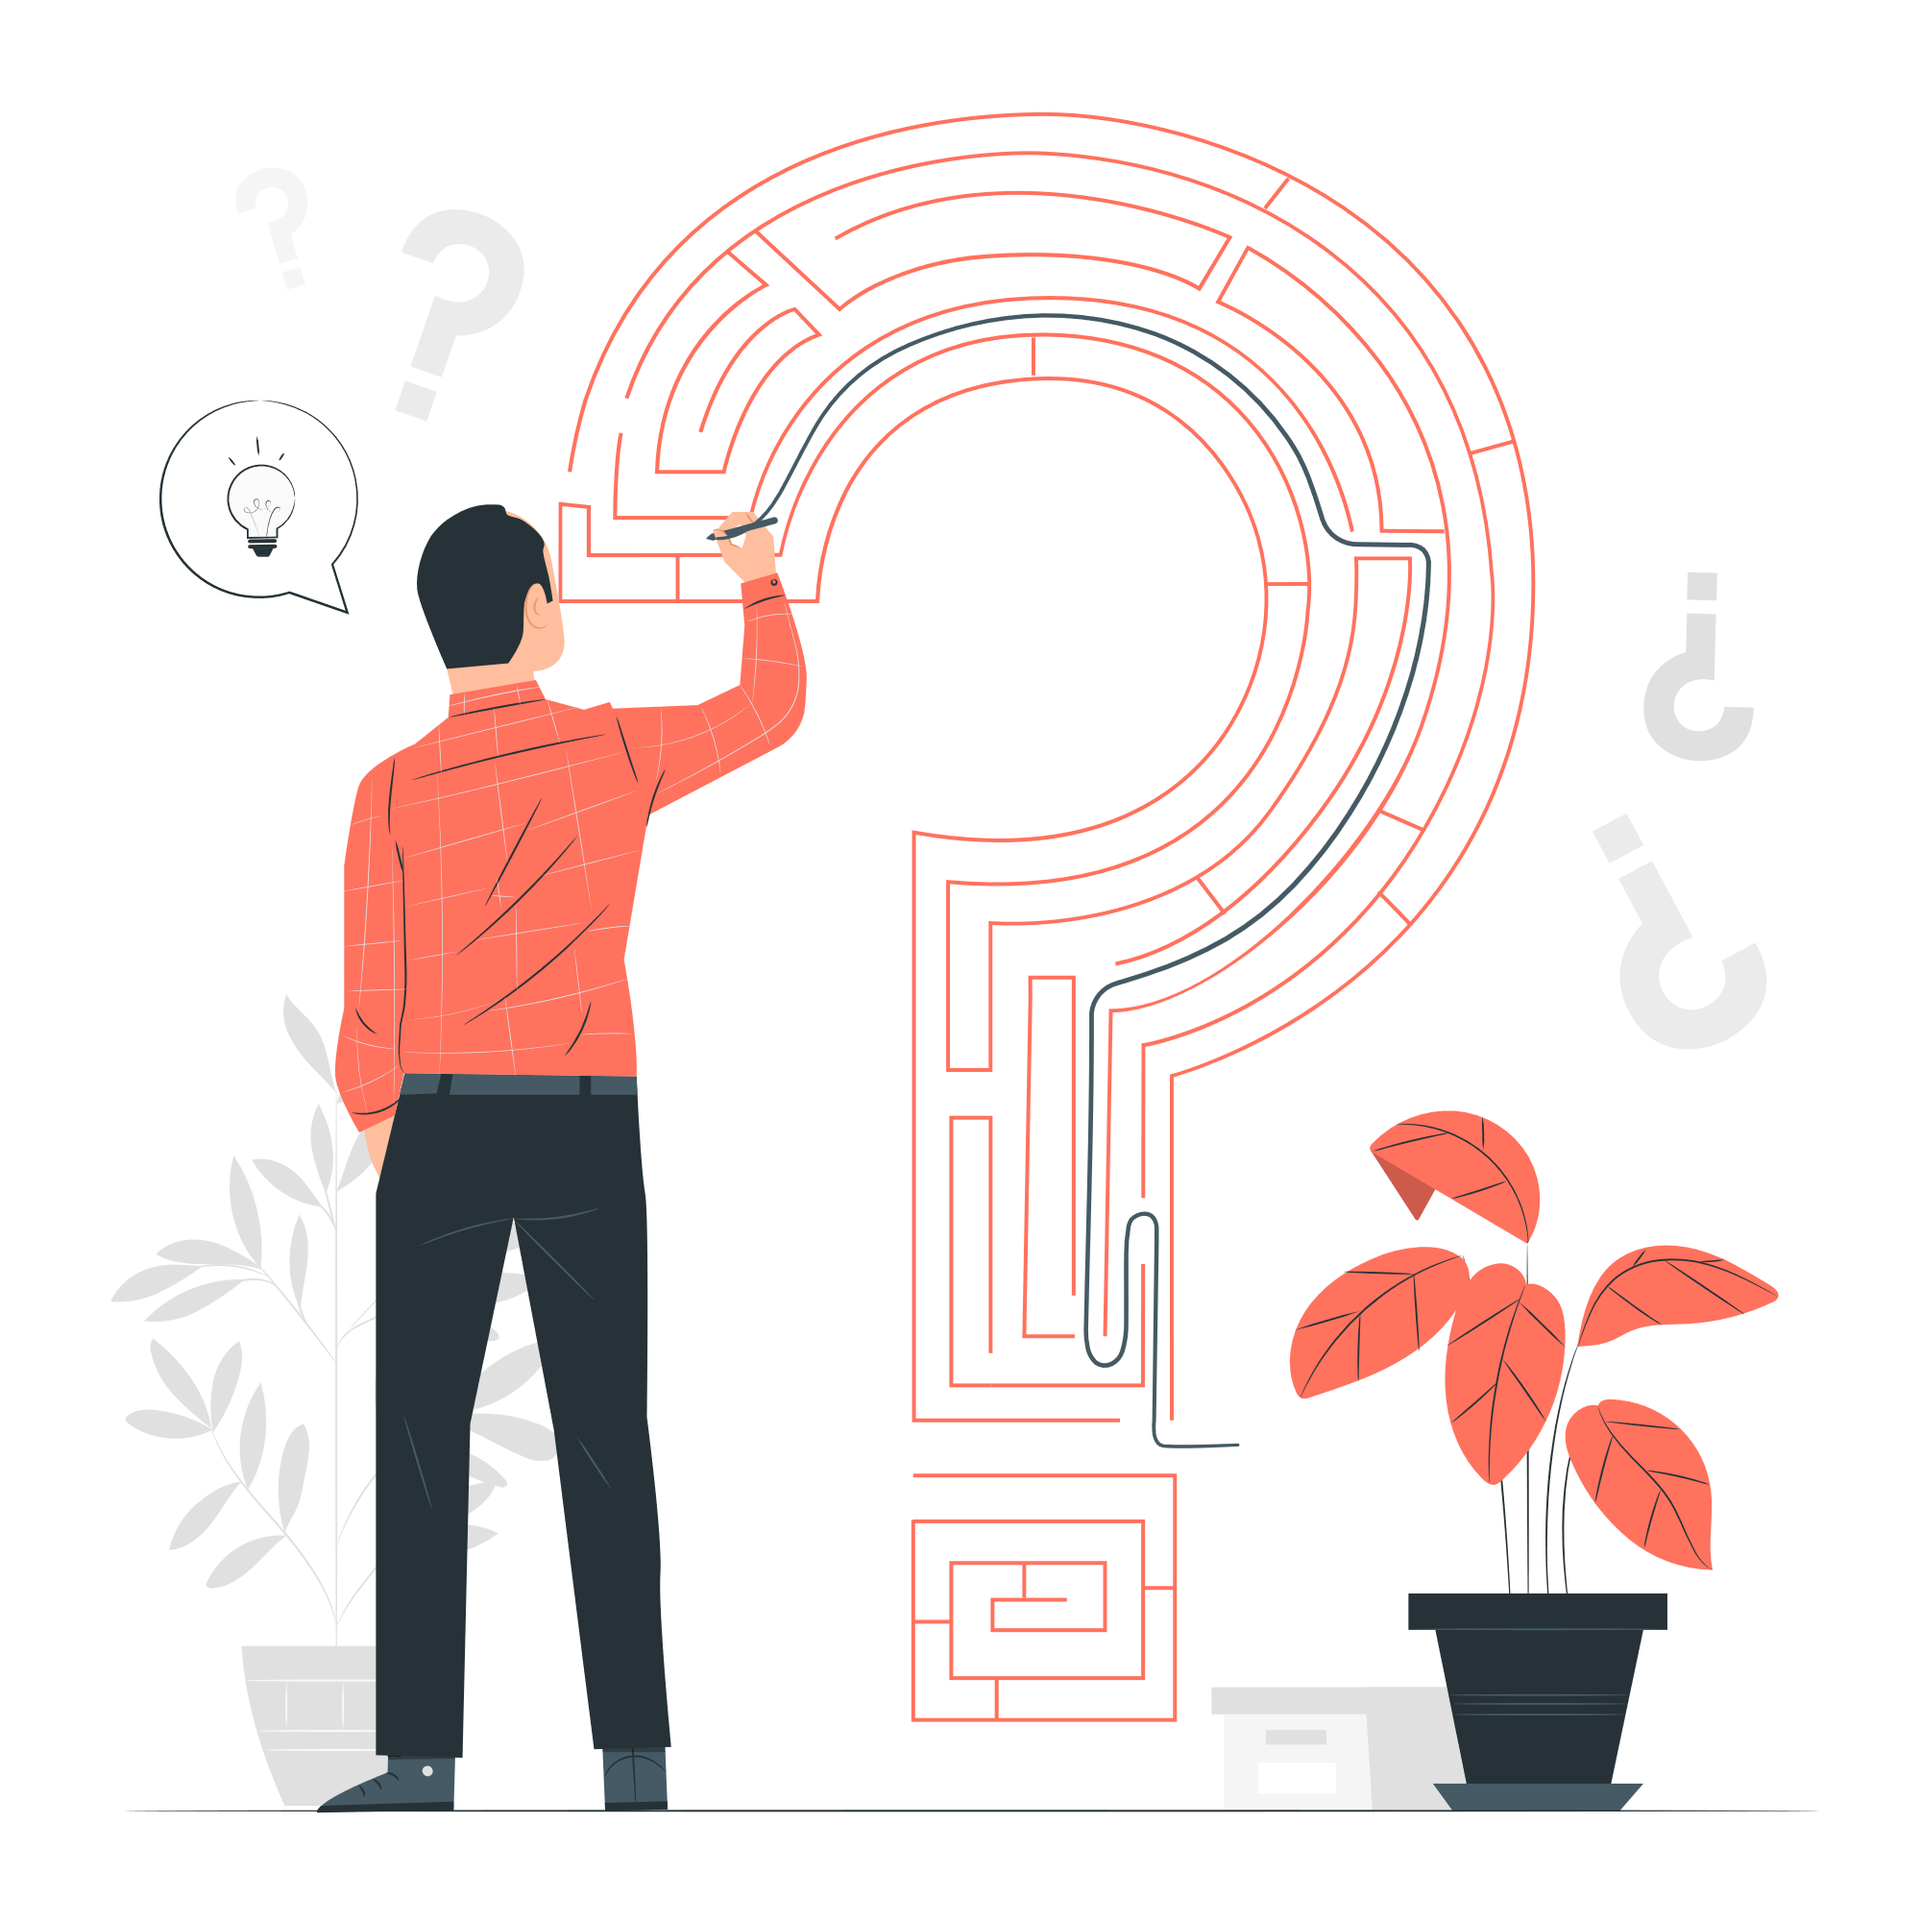
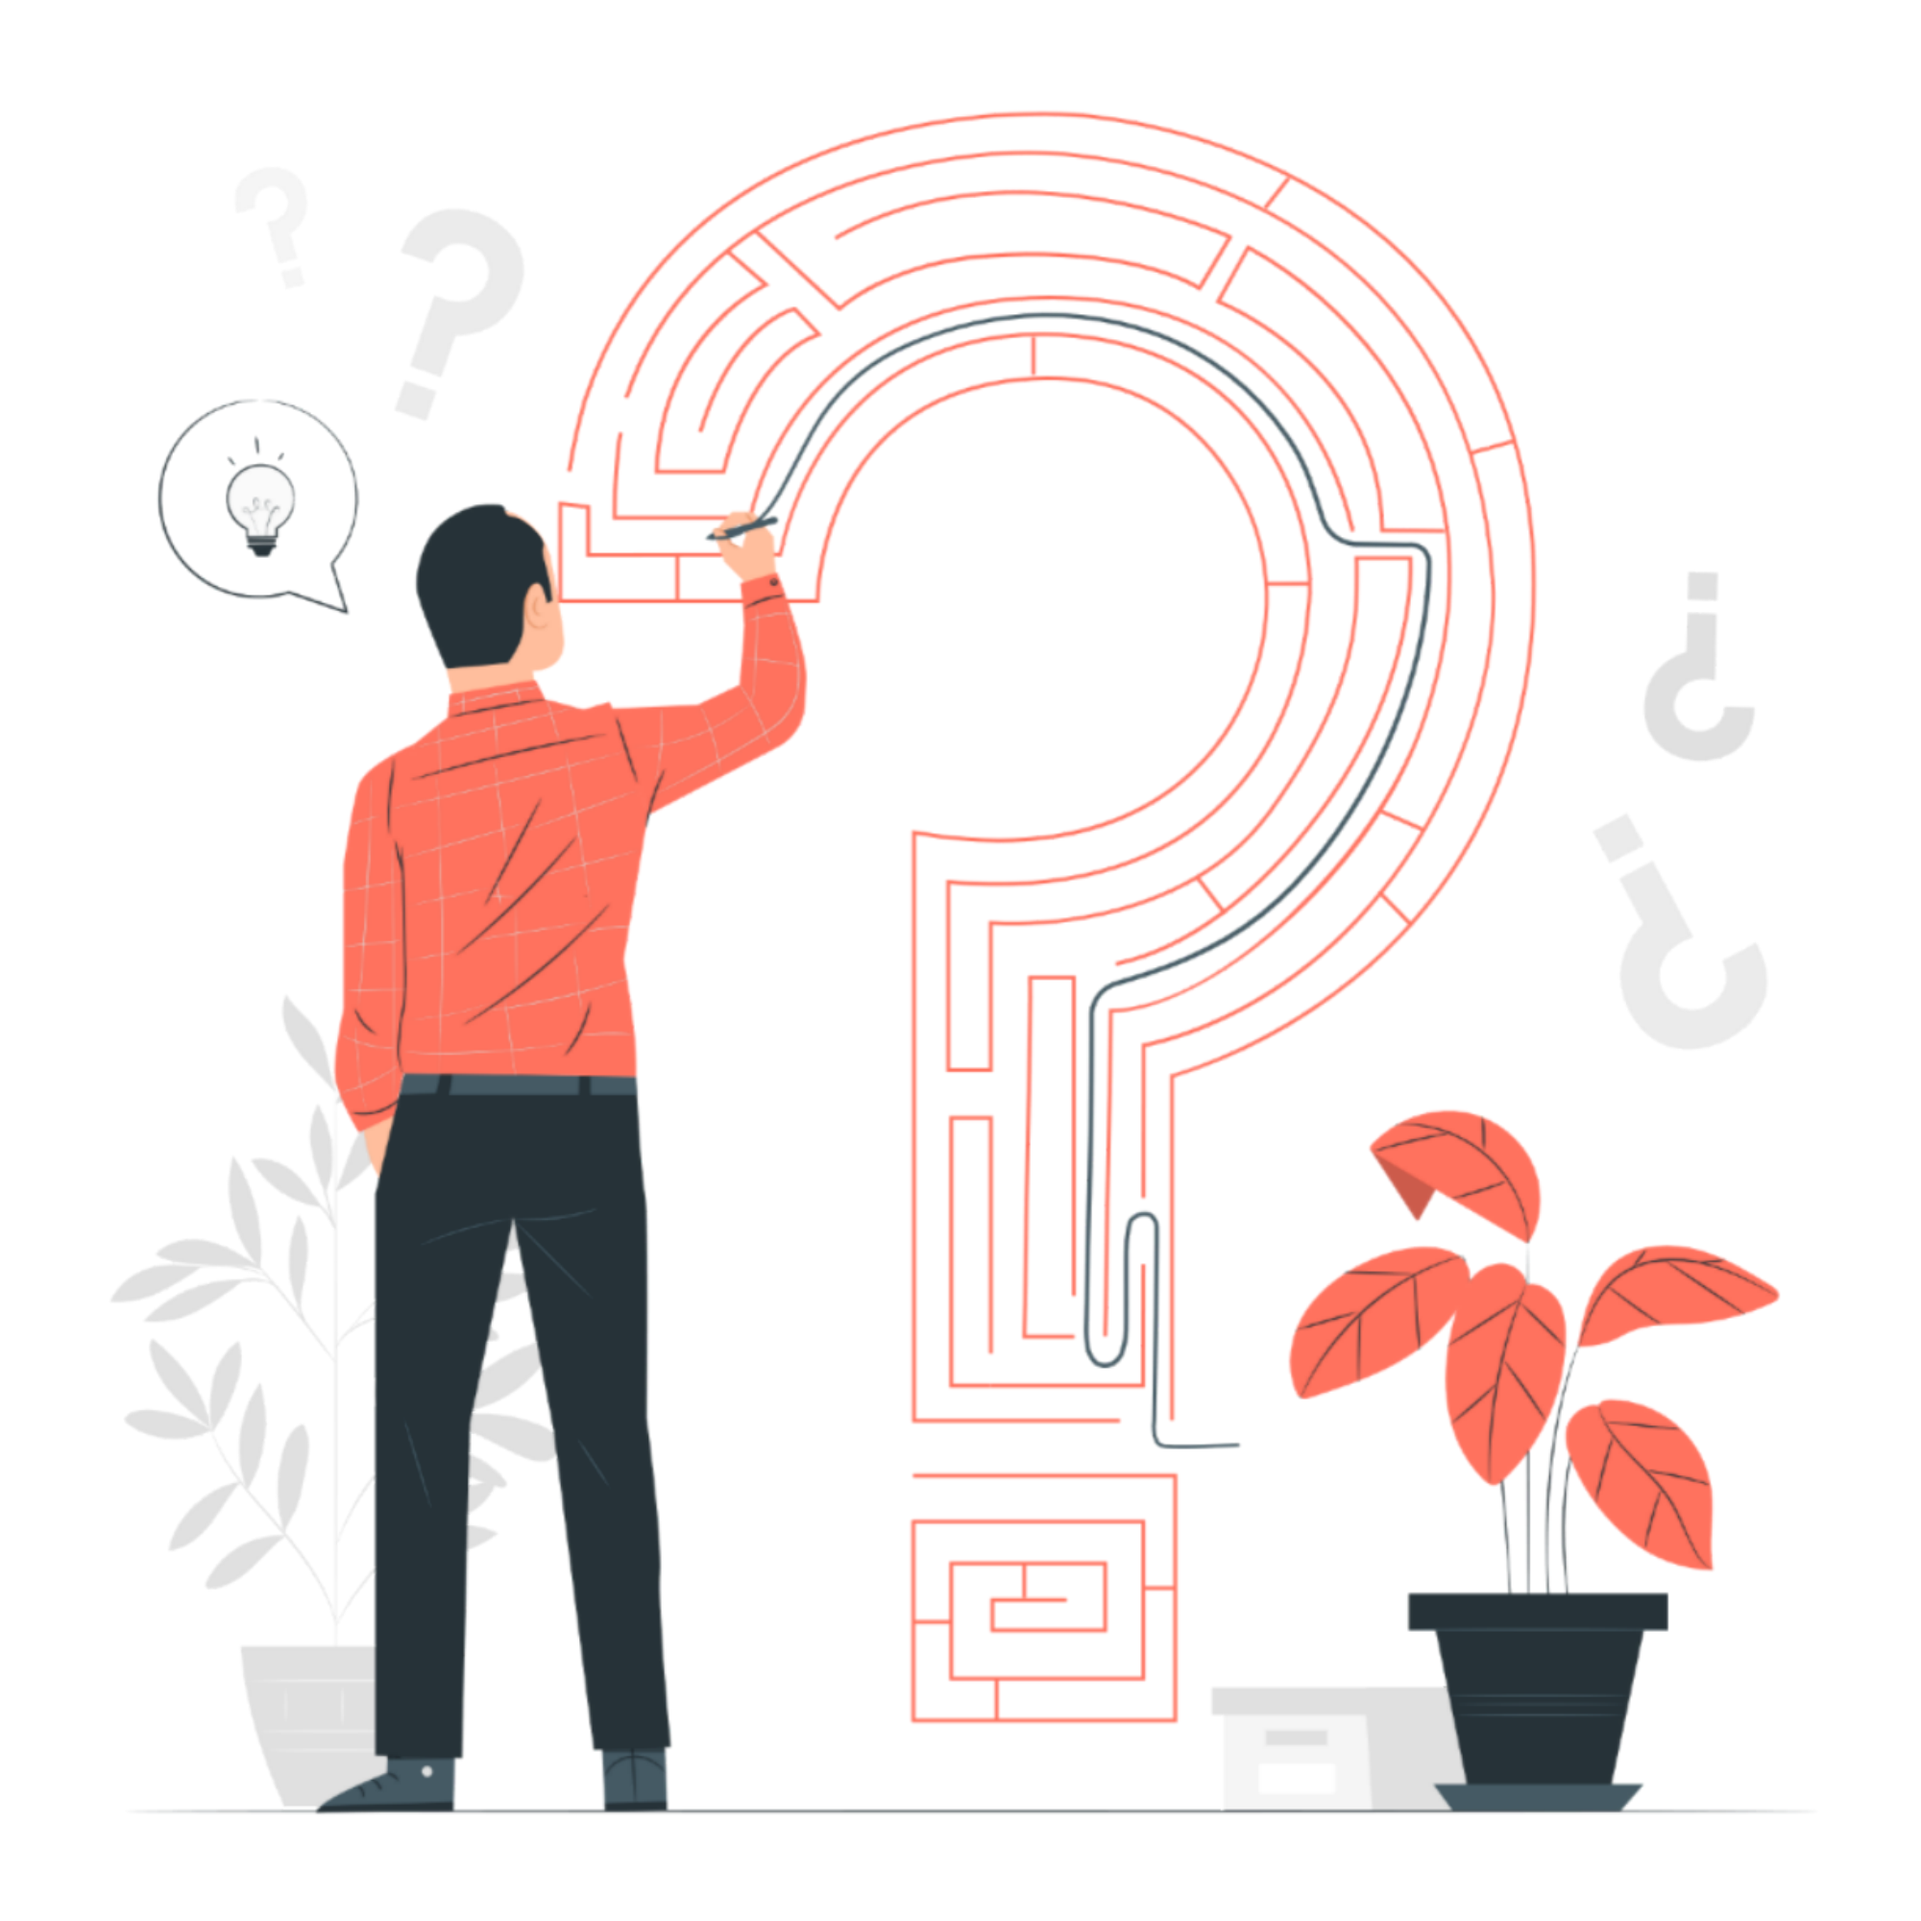
save

diff --git a/docs/Introduction/introduction.md b/docs/Introduction/introduction.md
@@ -5,7 +5,7 @@ order: 1
 ---
 
 # Introduction
-![Introduction](./images/introduction.jpg){:width="500px"}*figure: Introduction*
+![Introduction](./images/introduction.png){:width="500px"}*figure: Introduction*
 
 <!-- note -->
 Dans cette partie, nous concevons le prototype d'un système CRUD qui permet d'ajouter, de modifier et de supprimer des éléments en utilisant un générateur de code et le modèle Repository pour la gestion des données. Ce modèle Repository offre une couche d'abstraction entre l'application et le mécanisme de stockage des données.
